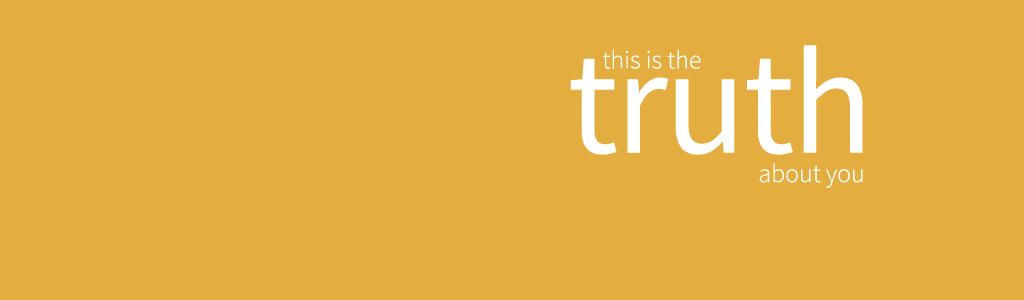
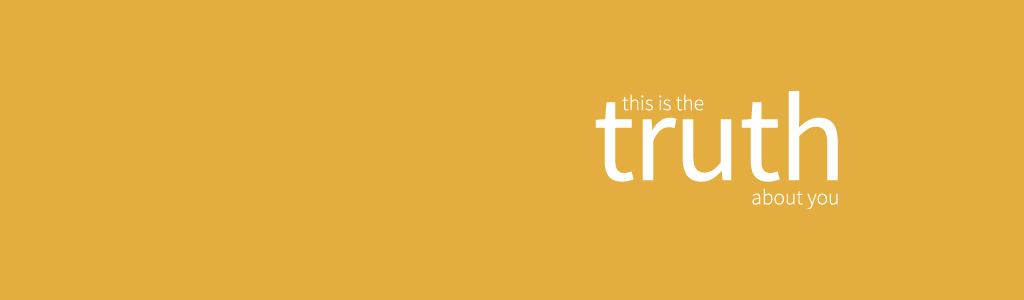
update

Changed region(s): [[0.5312, 0.15, 0.8438, 0.69]]

diff --git a/_scss/base/_global.scss b/_scss/base/_global.scss
@@ -253,7 +253,7 @@ button {
 #priester {
   background:url('http://lenamasek.github.io/assets/img/portfolio-1.png');
   background-size: cover !important;
-  background-position: center center;
+  background-position: center bottom;
   background-repeat: no-repeat, repeat;
   }
 
